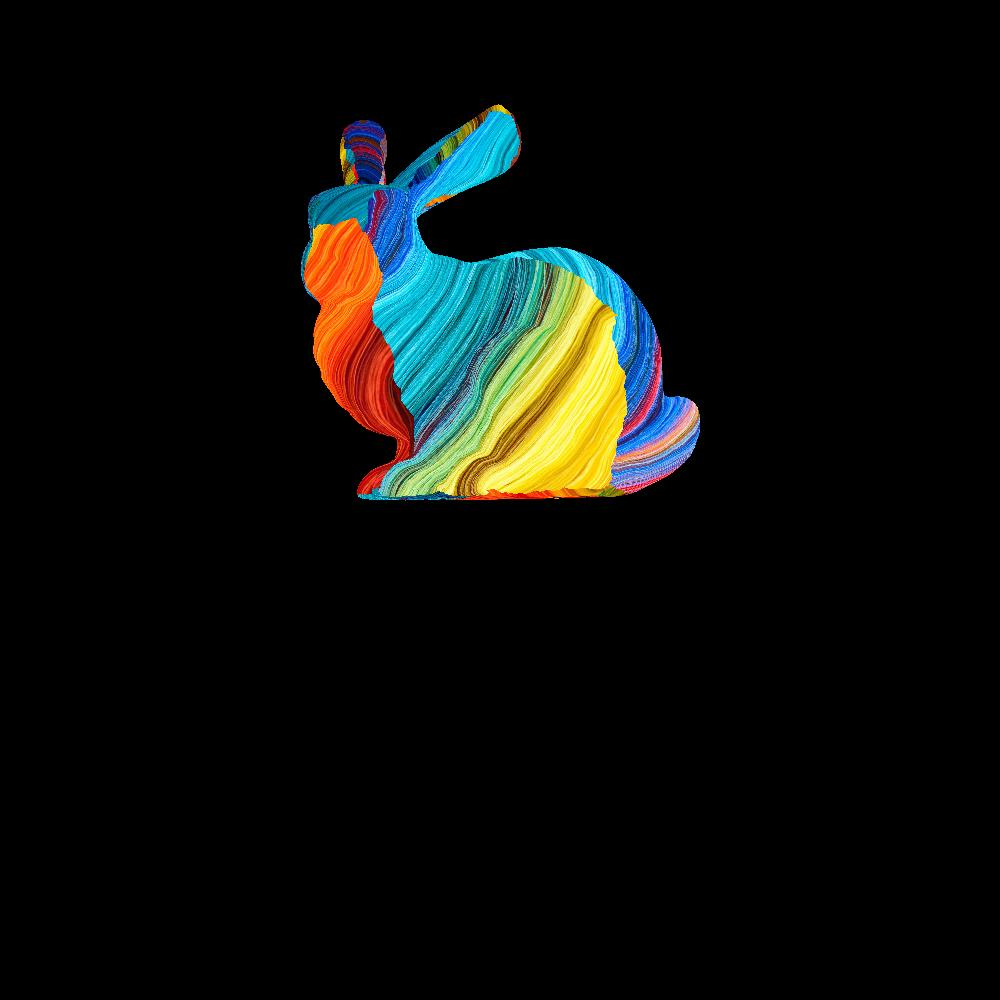
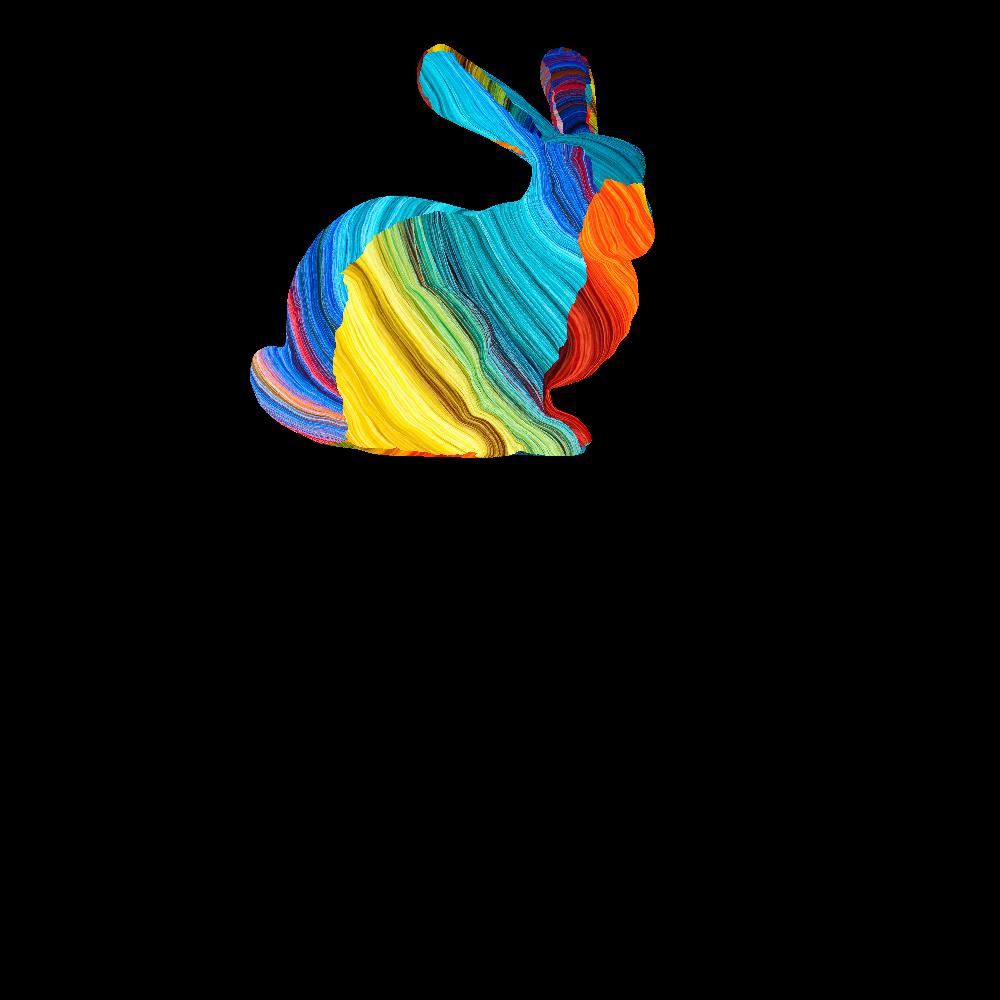
Fixed texture

Changed region(s): [[0.248, 0.031, 0.713, 0.527]]

diff --git a/model.py b/model.py
@@ -2,16 +2,6 @@ from PIL import Image
 from functions import *
 
 
-text_info = Image.open('img.png', 'r')
-text_width, text_height = text_info.size
-text_info = np.asarray(text_info)
-
-
-class Color:
-    def __init__(self, rgb=[0, 0, 0]):
-        self.rgb = rgb
-
-
 class Picture:
 
     def __init__(self, h: int = 256, w: int = 256, color: bool = False):
@@ -113,12 +103,7 @@ class Picture:
 class RenderPicture:
 
     def __init__(self, filename):
-        self.vertex = read_obj(filename)[0]
-        self.polygon = read_obj(filename)[1]
-        self.normal = read_obj(filename)[2]
-        self.normal_to_polygon = read_obj(filename)[3]
-        self.texture = read_obj(filename)[4]
-        self.vt = read_obj(filename)[5]
+        self.vertex, self.polygon, self.normal, self.normal_to_polygon, self.texture, self.vt = read_obj(filename)
 
     def draw_vertex(self, height, weight, k, b):
         picture = Picture(height, weight)
@@ -134,51 +119,37 @@ class RenderPicture:
                                self.vertex[p[i + 1]][0] * k + b, -self.vertex[p[i + 1]][1] * k + b, color=255)
         return picture
 
-    def draw_texture(self, height, weight, color: bool = False, k=4000, b=500):
+    def draw_texture(self, height, weight, file_texture, color: bool = False):
+
+        texture_image = Image.open(file_texture, 'r')
+        text_width, text_height = texture_image.size
+        texture_image = np.asarray(texture_image)
+
         picture = Picture(height, weight, color)
 
-        # for p, n in zip(self.polygon, self.normal_to_polygon):
-        #     new_vertexes = projective_transformation(self.get_vertexes(p))
-        #     l_norm = self.get_coefficients(n)
-        #
-        #     draw_with_z_buffer(new_vertexes, picture, l_norm)
         for p, n, t in zip(self.polygon, self.normal_to_polygon, self.texture):
             u0, v0 = self.vt[t[0]]
             u1, v1 = self.vt[t[1]]
             u2, v2 = self.vt[t[2]]
+
             u = np.array([u0, u1, u2])
             v = np.array([v0, v1, v2])
-            # color = Color(np.random.randint(1, 256, size=colors))
 
-            x0 = k * self.vertex[p[0]][0] + b
-            y0 = -k * self.vertex[p[0]][1] + b
-            z0 = k * self.vertex[p[0]][2] + b
+            new_vertexes = projective_transformation(self.get_vertexes(p))
+            x0, y0, z0 = new_vertexes[0]
+            x1, y1, z1 = new_vertexes[1]
+            x2, y2, z2 = new_vertexes[2]
+            x_min, y_min, x_max, y_max = search_minmax(x0, x1, x2, y0, y1, y2)
 
-            x1 = k * self.vertex[p[1]][0] + b
-            y1 = -k * self.vertex[p[1]][1] + b
-            z1 = k * self.vertex[p[1]][2] + b
-
-            x2 = k * self.vertex[p[2]][0] + b
-            y2 = -k * self.vertex[p[2]][1] + b
-            z2 = k * self.vertex[p[2]][2] + b
-
-            xmin = max(0, min(x0, x1, x2))
-            ymin = max(0, min(y0, y1, y2))
-            xmax = max(0, max(x0, x1, x2))
-            ymax = max(0, max(y0, y1, y2))
-
-            for x in range(int(xmin), int(xmax + 1)):
-                for y in range(int(ymin), int(ymax + 1)):
-                    barycentric = get_barycentric_coordinates(x, y, x0, y0, x1, y1, x2, y2)
-                    print(barycentric)
-                    if all(b > 0 for b in barycentric):
-                        z = barycentric[0] * z0 + barycentric[1] * z1 + barycentric[2] * z2
-                        if 0 <= x < picture.w and 0 <= y < picture.h:
-                            if z > picture.z_buffer[x, y]:
-                                idx0, idx1 = np.sum(text_width * (barycentric * u)), np.sum(text_width * (barycentric * v))
-                                picture.z_buffer[x, y] = z
-                                print(text_info[int(np.round(idx0))][int(np.round(idx1))])
-                                picture.set_pixel(x, y, text_info[int(np.round(idx0))][int(np.round(idx1))])
+            for x, y in [(x, y) for x in range(int(x_min), int(x_max) + 1) for y in range(int(y_min), int(y_max) + 1)]:
+                barycentric = get_barycentric_coordinates(x, y, x0, y0, x1, y1, x2, y2)
+                if np.all(barycentric > 0):
+                    z = barycentric[0] * z0 + barycentric[1] * z1 + barycentric[2] * z2
+                    if 0 <= x < picture.w and 0 <= y < picture.h:
+                        if z > picture.z_buffer[x, y]:
+                            idx0, idx1 = np.sum(text_width * (barycentric * u)), np.sum(text_width * (barycentric * v))
+                            picture.z_buffer[x, y] = z
+                            picture.set_pixel(x, y, texture_image[int(np.round(idx0))][int(np.round(idx1))])
         return picture
 
     def draw_guro(self, height, weight, color: bool = False):

diff --git a/main.py b/main.py
@@ -65,7 +65,7 @@ def task_18():
 
 def dop():
     im = RenderPicture(file_name)
-    im.draw_texture(height, weight, True).save('result/dop.jpg')
+    im.draw_texture(height, weight, 'img.png', True).save('result/dop.jpg')
 
 
 if __name__ == '__main__':
